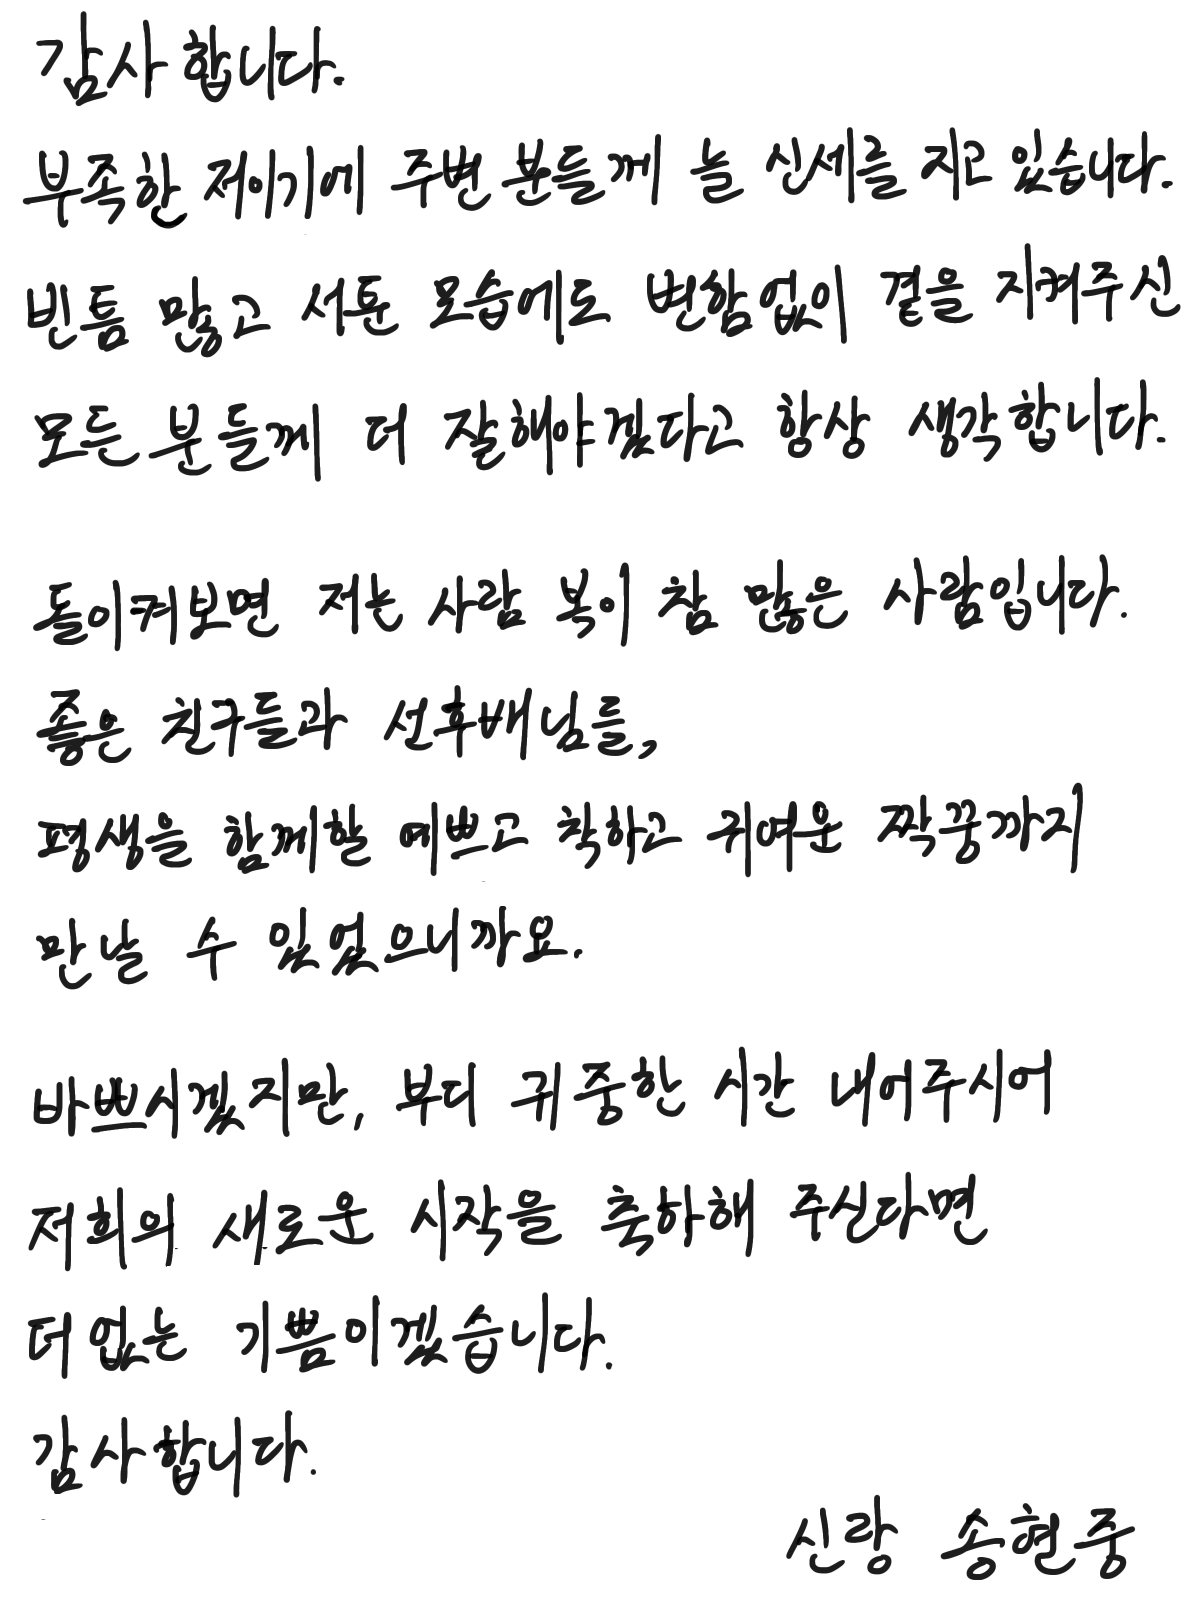
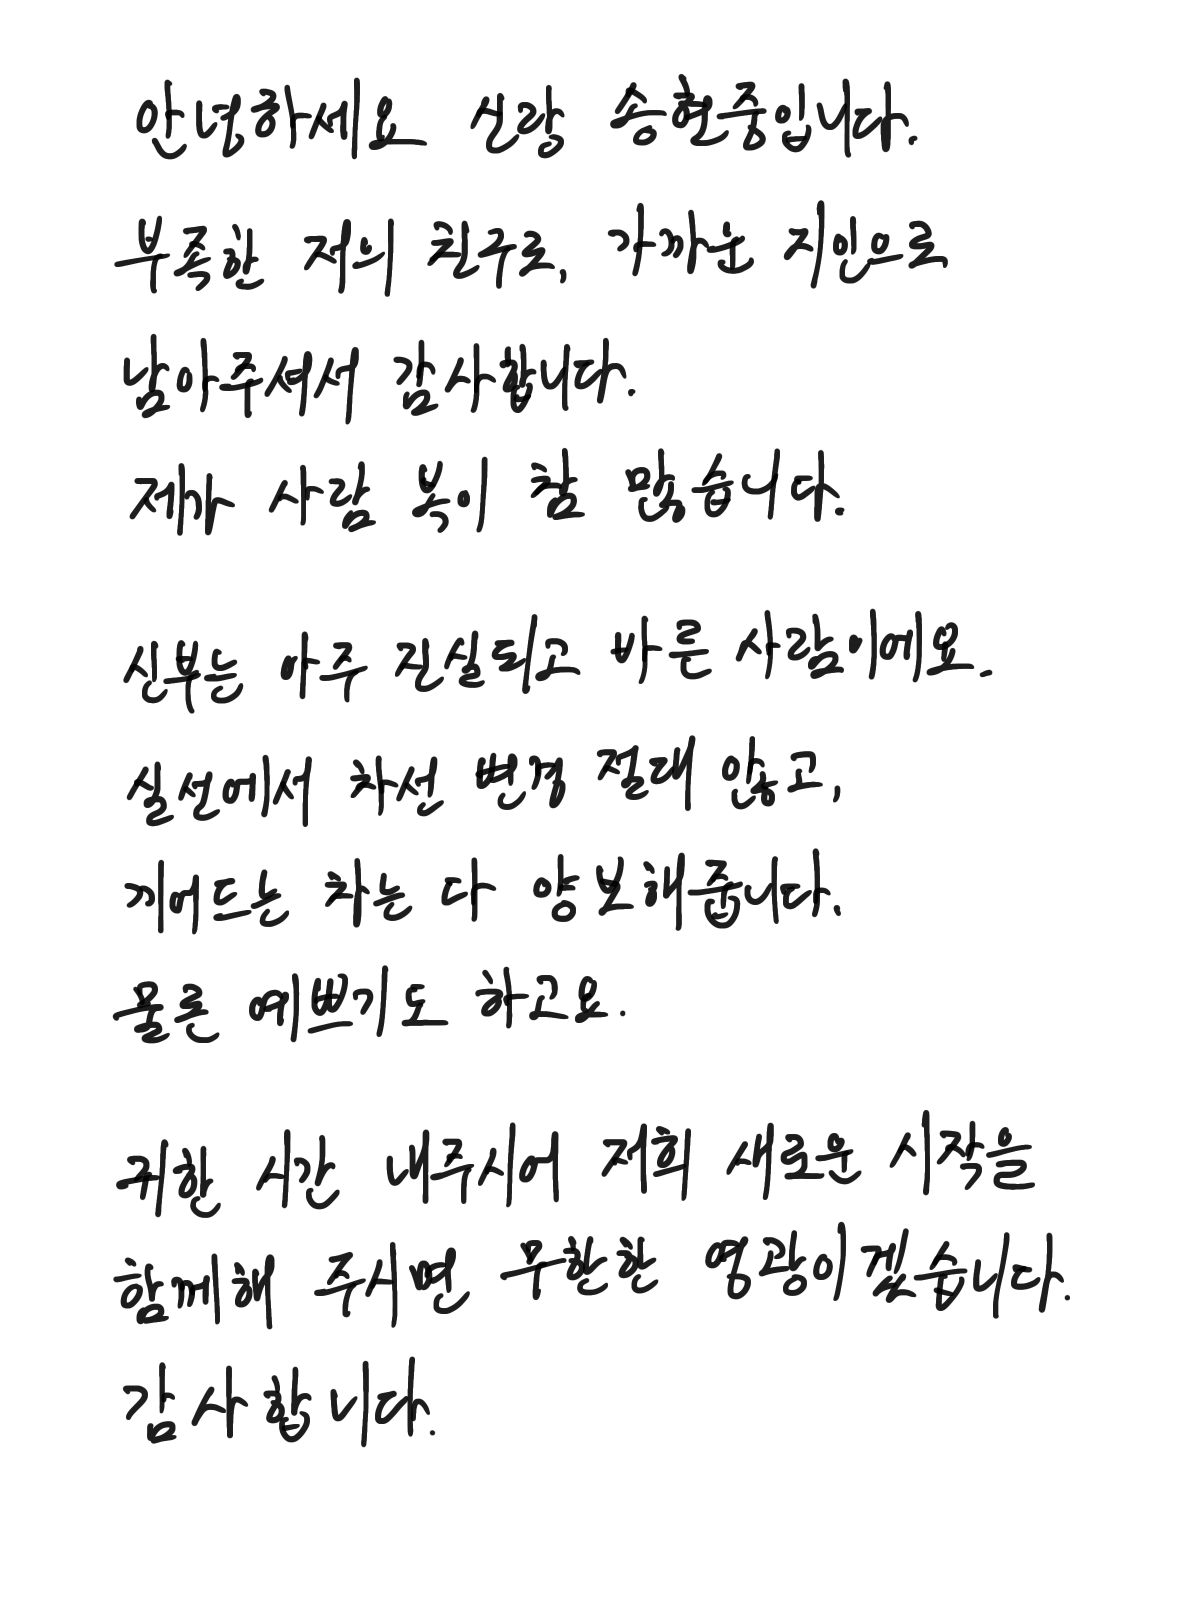
chore: 히어로 일시/장소 0.5% 상향, 신랑 손글씨(05) 이미지 교체

diff --git a/sm-fe/src/sections/HeroSection.tsx b/sm-fe/src/sections/HeroSection.tsx
@@ -58,11 +58,11 @@ export function HeroSection() {
         {greeting.bride.name}
       </div>
 
-      {/* 일시·장소 (원래 86.5/91.5 → 한 줄 내렸다가 절반만 되돌림: +2%) */}
-      <div style={layer({ top: '88.5%', left: '50%', fontSize: '1.05rem', letterSpacing: '0.18em' })}>
+      {/* 일시·장소 (원래 86.5/91.5 기준 +1.5%) */}
+      <div style={layer({ top: '88%', left: '50%', fontSize: '1.05rem', letterSpacing: '0.18em' })}>
         {dateStr}
       </div>
-      <div style={layer({ top: '93.5%', left: '50%', fontSize: '1.2rem', letterSpacing: '0.1em' })}>
+      <div style={layer({ top: '93%', left: '50%', fontSize: '1.2rem', letterSpacing: '0.1em' })}>
         로프트가든344
       </div>
     </section>
